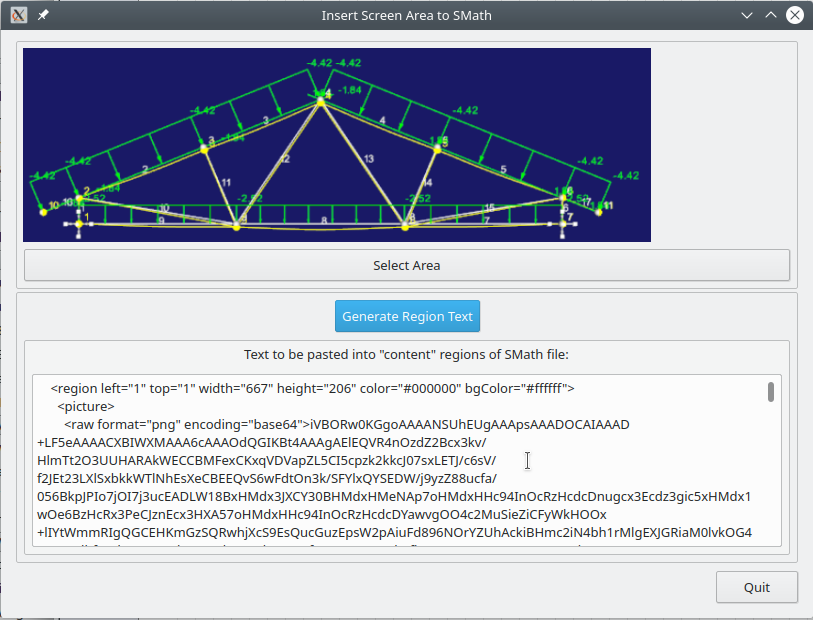
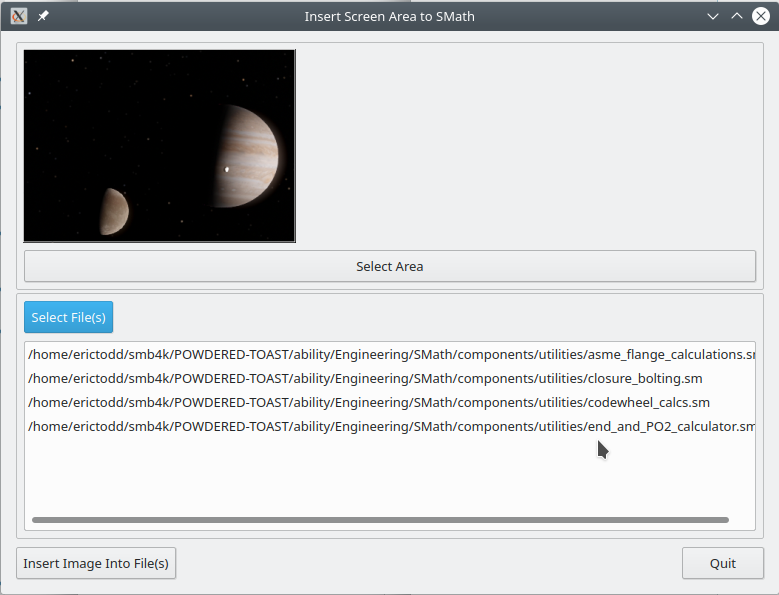
Utility modified to insert image directly into SMath file, without the need to copy and paste using a text editor. Includes the ability to insert the image clip into multiple SMath files at a time.

diff --git a/insert_image_to_smath.py b/insert_image_to_smath.py
@@ -3,10 +3,13 @@
 # Adapted from code at https://gist.github.com/aspotton/1888298869c8adf59a577f2fe9d32fc8
 
 import sys
+import os
+import mmap
 
 from PyQt5 import QtCore,QtGui,QtWidgets,uic
 from PyQt5.QtGui import QPixmap
 from PyQt5.QtWidgets import QApplication
+from PyQt5.QtWidgets import QFileDialog
 from Xlib import X, display
 from subprocess import getoutput
 
@@ -152,12 +155,43 @@ class Screenshot (QtWidgets.QWidget):
         
         self.selectAreaButton.clicked.connect(self.selectArea)
         self.quitScreenshotButton.clicked.connect(self.close)
-        self.generateTextButton.clicked.connect(self.generate_text)
-
+        self.selectFilesButton.clicked.connect(self.selectFiles)
+        self.insertImageButton.clicked.connect(self.insertImage)
+        
+    def setInsertButtonState(self):
+        readiness=0        
+        if self.screenshotLabel.pixmap():
+            readiness+=1
+        if self.fileListWidget.count()>0:
+            readiness+=1
+            
+        if readiness==2:
+            self.insertImageButton.setEnabled(True)
+        else:
+            self.insertImageButton.setEnabled(False)
+        
     def updateScreenshotLabel(self):
         self.screenshotLabel.setPixmap(self.originalPixmap.scaled(
                 self.screenshotLabel.size(), QtCore.Qt.KeepAspectRatio,
                 QtCore.Qt.SmoothTransformation))
+        
+        self.setInsertButtonState()
+
+    def selectFiles(self):        
+        dialog = QFileDialog(self)
+        dialog.setFileMode(QFileDialog.ExistingFiles)
+        dialog.setNameFilter("SMath Files (*.sm)")
+        dialog.setViewMode(QFileDialog.Detail)
+        dialog.AcceptMode(QFileDialog.AcceptOpen)
+        
+        if dialog.exec_():
+            self.fileListWidget.clear()
+            fileNames = dialog.selectedFiles()
+            
+        for filename in fileNames:
+            self.fileListWidget.addItem(filename)
+        
+        self.setInsertButtonState()
 
     def selectArea(self):
         self.hide()
@@ -165,7 +199,7 @@ class Screenshot (QtWidgets.QWidget):
         xs = XSelect(display.Display())
         self.area = xs.get_mouse_selection()
         self.shootScreen()
-
+        
         self.show()
 
     def shootScreen(self):
@@ -185,14 +219,166 @@ class Screenshot (QtWidgets.QWidget):
             self.originalPixmap.save(buffer, 'PNG')
             self.encoded_pic=buffer.data().toBase64()
             # print(self.area[0],self.area[1],self.encoded_pic)
-            self.generateTextButton.setEnabled(True)
 
-        self.updateScreenshotLabel()
-        
+        self.updateScreenshotLabel()        
         self.show()
-    def generate_text(self):
-        region_text='    <region left="1" top="1" width="'+str(self.area[2])+'" height="'+str(self.area[3])+'" color="#000000" bgColor="#ffffff">\n      <picture>\n        <raw format="png" encoding="base64">'+self.encoded_pic.data().decode()+'</raw>\n      </picture>\n    </region>'
-        self.regionTextEdit.setText(region_text)
+        
+    def insertImage(self):
+        file_list_length=self.fileListWidget.count()
+        for i in range(file_list_length):
+            filename=self.fileListWidget.item(i).text()
+            print(filename)
+            file=open(filename, 'rb+') # Open read/write binary
+            s=mmap.mmap(file.fileno(), 0, access=mmap.ACCESS_WRITE)
+            print("File size before resizing is "+str(s.size()))
+            # look for <regions type="content">. If found, insert line after that
+            region_id=''
+            content_loc=s.find(b'<regions type="content">')
+            if content_loc==-1:
+                # if not found, find </settings> and insert line after that with region id="0"
+                index=s.find(b'</settings>')+len(b'</settings>')
+                region_id='id="0" '
+            else:
+                index=content_loc+len(b'<regions type="content">')
+                
+            region_text='\n    <region '+region_id+'left="1" top="1" width="'+str(self.area[2])+'" height="'+str(self.area[3]) \
+                +'" color="#000000" bgColor="#ffffff">\n      <picture>\n        <raw format="png" encoding="base64">' \
+                +self.encoded_pic.data().decode()+'</raw>\n      </picture>\n    </region>'
+            text_size=len(region_text)
+            self.insert_bytes(file,text_size,index)            
+            print("File size after resizing is "+str(s.size()))
+            s.flush()
+            s.close()
+            file.close()
+            
+            file=open(filename, 'r+') # Open read/write
+            file.seek(index,0)
+            file.write(region_text)
+            file.close()
+            
+        QtWidgets.QMessageBox.information(self, "Image Inserted", "Image added to "+str(file_list_length)+" files.")
+            
+## The functions insert_bytes, resize_file, and mmap_move are copied from https://github.com/bugatsinho/script.module.mutagen/blob/master/lib/mutagen/_util.py
+    def insert_bytes(self,fobj, size, offset, BUFFER_SIZE=2 ** 16):
+        """Insert size bytes of empty space starting at offset.
+
+        fobj must be an open file object, open rb+ or
+        equivalent.
+
+        Args:
+            fobj (fileobj)
+            size (int): The amount of space to insert
+            offset (int): The offset at which to insert the space
+        Raises:
+            IOError
+        """
+
+        if size < 0 or offset < 0:
+            raise ValueError
+
+        fobj.seek(0, 2)
+        filesize = fobj.tell()
+        movesize = filesize - offset
+
+        if movesize < 0:
+            raise ValueError
+
+        self.resize_file(fobj, size, BUFFER_SIZE)
+
+        self.mmap_move(fobj, offset + size, offset, movesize)
+
+    def resize_file(self,fobj, diff, BUFFER_SIZE=2 ** 16):
+        """Resize a file by `diff`.
+
+        New space will be filled with zeros.
+
+        Args:
+            fobj (fileobj)
+            diff (int): amount of size to change
+        Raises:
+            IOError
+        """
+
+        fobj.seek(0, 2)
+        filesize = fobj.tell()
+
+        if diff < 0:
+            if filesize + diff < 0:
+                raise ValueError
+            # truncate flushes internally
+            fobj.truncate(filesize + diff)
+        elif diff > 0:
+            try:
+                while diff:
+                    addsize = min(BUFFER_SIZE, diff)
+                    fobj.write(b"\x00" * addsize)
+                    diff -= addsize
+                fobj.flush()
+            except IOError as e:
+                if e.errno == errno.ENOSPC:
+                    # To reduce the chance of corrupt files in case of missing
+                    # space try to revert the file expansion back. Of course
+                    # in reality every in-file-write can also fail due to COW etc.
+                    # Note: IOError gets also raised in flush() due to buffering
+                    fobj.truncate(filesize)
+                raise
+
+    def mmap_move(self,fileobj, dest, src, count):
+        """Mmaps the file object if possible and moves 'count' data
+        from 'src' to 'dest'. All data has to be inside the file size
+        (enlarging the file through this function isn't possible)
+
+        Will adjust the file offset.
+
+        Args:
+            fileobj (fileobj)
+            dest (int): The destination offset
+            src (int): The source offset
+            count (int) The amount of data to move
+        Raises:
+            mmap.error: In case move failed
+            IOError: In case an operation on the fileobj fails
+            ValueError: In case invalid parameters were given
+        """
+
+        assert mmap is not None, "no mmap support"
+
+        if dest < 0 or src < 0 or count < 0:
+            raise ValueError("Invalid parameters")
+
+        try:
+            fileno = fileobj.fileno()
+        except (AttributeError, IOError):
+            raise mmap.error(
+                "File object does not expose/support a file descriptor")
+
+        fileobj.seek(0, 2)
+        filesize = fileobj.tell()
+        length = max(dest, src) + count
+
+        if length > filesize:
+            raise ValueError("Not in file size boundary")
+
+        offset = ((min(dest, src) // mmap.ALLOCATIONGRANULARITY) *
+                mmap.ALLOCATIONGRANULARITY)
+        assert dest >= offset
+        assert src >= offset
+        assert offset % mmap.ALLOCATIONGRANULARITY == 0
+
+        # Windows doesn't handle empty mappings, add a fast path here instead
+        if count == 0:
+            return
+
+        # fast path
+        if src == dest:
+            return
+
+        fileobj.flush()
+        file_map = mmap.mmap(fileno, length - offset, offset=offset)
+        try:
+            file_map.move(dest - offset, src - offset, count)
+        finally:
+            file_map.close()
 
 if __name__=='__main__':
     if sys.version_info[0] < 3:

diff --git a/README.md b/README.md
@@ -1,26 +1,21 @@
 # insert_image_to_smath
 
-This is a small utility for use with the Mono/Linux version of SMath. It allows the user to grab an image from a selected area of the screen, and generates encoded text with formatting suitable to paste into the raw smath file.
+This is a small utility for use with the Mono/Linux version of SMath. It allows the user to grab an image from a selected area of the screen, and insert the image into one or more SMath files.
 
-Requires Python 3, PyQt 5, Linux with X Windows
+Requires Python 3, PyQt 5, python3-xlib, and Linux with X Windows
 
 [![Application screenshot](/images/Screenshot.png "Application screenshot")]
 
 Instructions:
- - Close the ".sm" file you are working on from SMath, or exit SMath
+ - Close all ".sm" files that will have an image inserted, or exit SMath
  - Start the screen capture utility (e.g. set it as executable or run "python3 insert_image_to_smath.py" from the command line or shortcut)
  - Make sure the screen area you want to capture is visible (not minimized or hidden behind any window except this utility)
  - Click the "Select Area" button. The utility will hide itself.
  - Click and drag a rectangular selection box around the screen area you want to capture.
  - Once the left mouse button is released the utility will reappear, with a preview of the captured image in the field above the "Select Area" button.
- - Click the "Generate Region Text" button. The edit region below the button will be populated with text.
- - Select all text in the edit region and copy it to the clipboard.
- - Open the ".sm" file in a plain text editor (not in SMath)
- - Find the line in the file that says \<regions type="content"\>. Add a new line after that.
- [![Raw file insert position](/images/raw_file_insert_position.png "Raw file insert position")]
- - Paste the text from the clipboard into the new line and save the text file.
+ - Click the "Select File(s)" button, and choose the desired files from the resulting dialog.
+ - Confirm the selected files in the list, then click the "Insert Image Into File(s)" button.
  - When the file is re-opened from SMath, the image will be in the top left corner of the first page, just drag it where it needs to go.
- - Multiple successive screen captures can be taken and pasted in, just put each in a new line.
 
 
 Much of the code in this utility was borrowed from:
